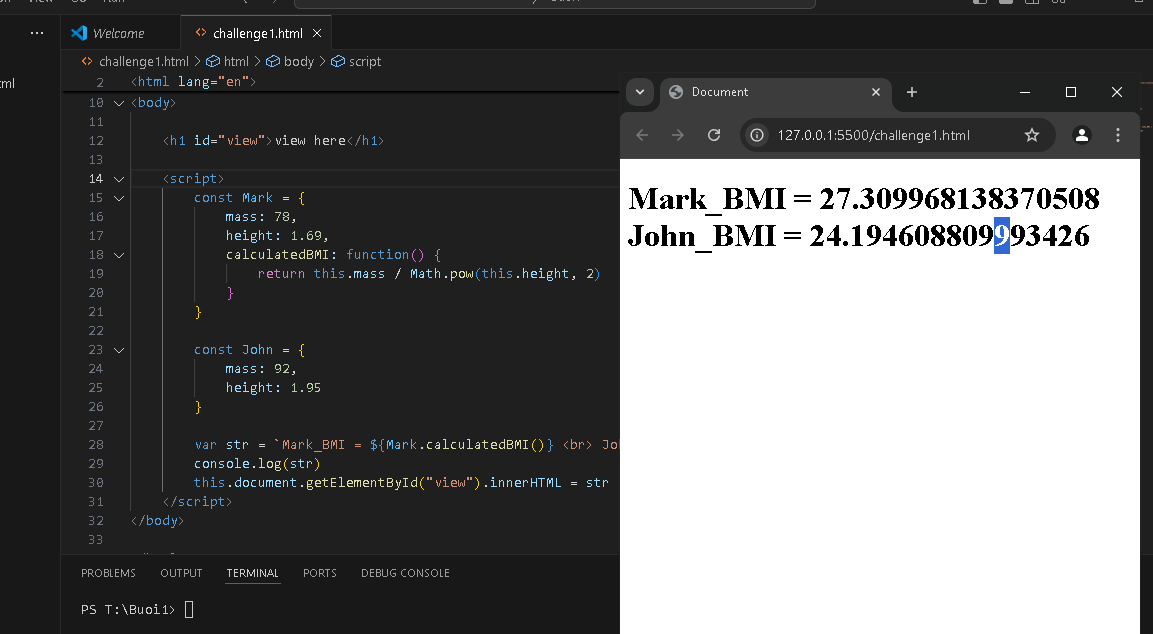
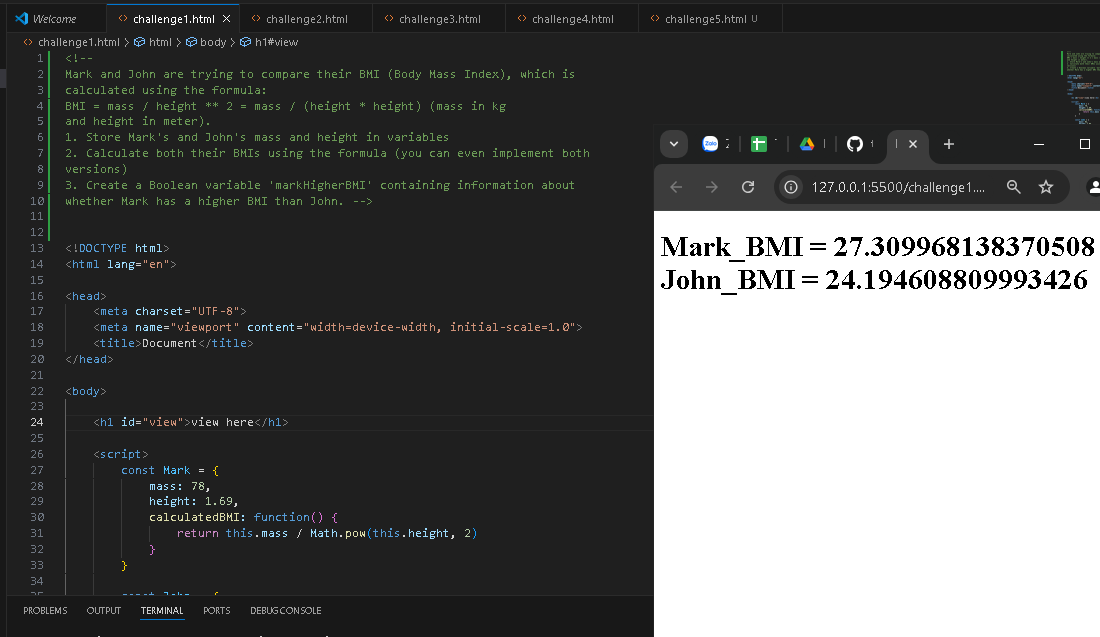
Code 1

diff --git a/challenge1.html b/challenge1.html
@@ -1,3 +1,15 @@
+<!-- 
+Mark and John are trying to compare their BMI (Body Mass Index), which is
+calculated using the formula:
+BMI = mass / height ** 2 = mass / (height * height) (mass in kg
+and height in meter).
+1. Store Mark's and John's mass and height in variables
+2. Calculate both their BMIs using the formula (you can even implement both
+versions)
+3. Create a Boolean variable 'markHigherBMI' containing information about
+whether Mark has a higher BMI than John. -->
+
+
 <!DOCTYPE html>
 <html lang="en">
 

diff --git a/challenge5.html b/challenge5.html
@@ -1,0 +1,14 @@
+<!DOCTYPE html>
+<html lang="en">
+
+<head>
+    <meta charset="UTF-8">
+    <meta name="viewport" content="width=device-width, initial-scale=1.0">
+    <title>Document</title>
+</head>
+
+<body>
+
+</body>
+
+</html>
